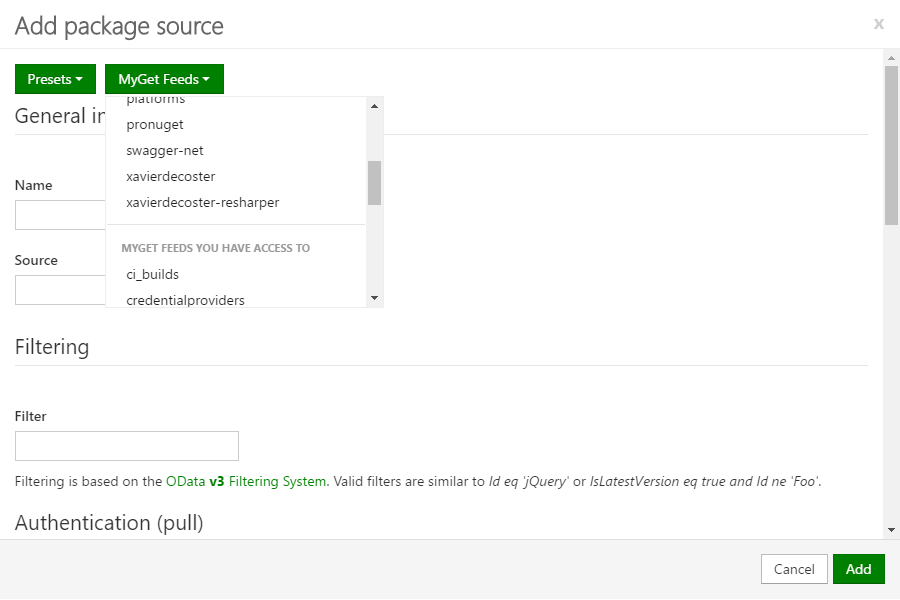
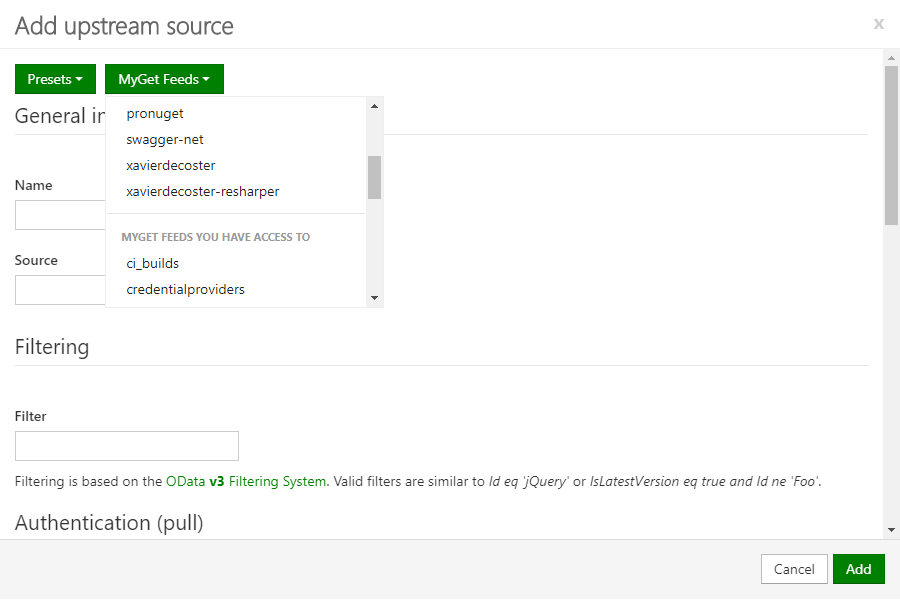
Updates how-to/working-with-upstream-package-sources.md
Auto commit by GitBook Editor

diff --git a/how-to/working-with-upstream-package-sources.md b/how-to/working-with-upstream-package-sources.md
@@ -40,7 +40,7 @@ A dialog will prompt your for upstream source information and will also expose a
 ### Upstream Source Credentials
 If you have any access privileges to other MyGet feeds, you will see those in the MyGet Feeds presets, so you can easily build a chain of package sources to facilitate a [package promotion flow](/how-to/working-with-upstream-package-sources.md#using-a-feed-as-a-staging-area-push-upstream).
 
-
+![](/assets/add package source - MyGet preset.png)
 
 If you select a private MyGet feed you have access to as an upstream package source, there's no need to provide credentials to be able to restore packages from it on MyGet Build Services. MyGet will impersonate your user account when authenticating against that upstream feed.
 
